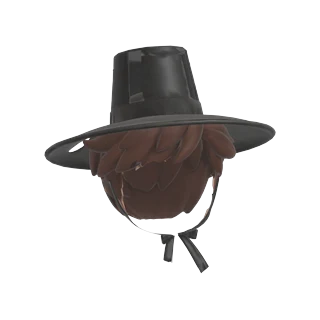
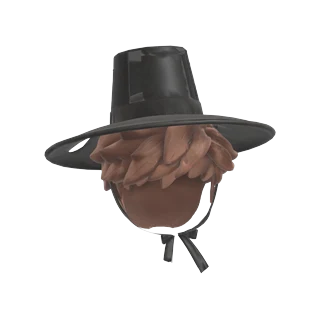
feat(art): 갓·장군 투구에 남녀별 머리 (#341)
- 게임: item__HAIR__<문자>__for_man/__for_girl 조각은 그 캐릭터에만 그림(characterLook.ts, 단위 테스트)
- hat_hair.py: 기본 머리(남자 b, 여자 e)를 모자 안으로 당겨 넣고, 모자 속에 숨은 면은 지움. drop_hair=1로 Tripo 머리 제거
- 갓: 남녀 모두 기본 머리(Tripo 머리보다 깔끔), 장군 투구: 여자 머리만 추가(남자는 그대로)
- to_game.py·render_look.py·item_art.py가 캐릭터별 조각을 앎, 옷장은 여자일 때 -girl 카드 그림 사용
- gat.glb, general.glb, 카드 그림, 문서(④-2) 갱신

Changed region(s): [[0.25, 0.375, 0.75, 0.7188]]

diff --git a/frontend/src/world/art/characterLook.ts b/frontend/src/world/art/characterLook.ts
@@ -6,7 +6,8 @@ import { equipSlots, type EquipSlot, type PublicEquipment } from '../../network/
  * that cover them, plus that character's default items; outfit files hold only their items. Every mesh lists
  * its pieces (extras.pieces: [name, first index, index count]) and the game draws only the worn ones:
  * - `body` always, `body__TOPd_BOTTOMg` unless one of those items is worn;
- * - `item__TOP__d` while TOP d from that file is worn, `item__TOP__d__under_TOPb` unless TOP b is worn too.
+ * - `item__TOP__d` while TOP d from that file is worn, `item__TOP__d__under_TOPb` unless TOP b is worn too;
+ * - `item__HAIR__h__for_girl` like `item__HAIR__h`, on the girl only (`__for_man`: the man only).
  */
 export type CharacterVariant = 'man' | 'girl'
 export interface Worn { source: string; id: string }
@@ -57,10 +58,11 @@ export function pieceShown(name: string, source: string, variant: CharacterVaria
   const worn = new Set(Object.entries(look).map(([slot, piece]) => slot + piece.id))
   const body = name.match(/^body(?:__(\w+))?$/)
   if (body) return source === variant && !tokens(body[1]).some(token => worn.has(token))
-  const item = name.match(/^item__([A-Z]+)__([a-z0-9]+)(?:__under_(\w+))?$/)
-  if (!item) return false
+  // `__for_girl` / `__for_man`: a piece for that character only (a hat's hair: the girl's under it, or the man's)
+  const item = name.match(/^item__([A-Z]+)__([a-z0-9]+)(?:__for_(man|girl))?(?:__under_(\w+))?$/)
+  if (!item || item[3] && item[3] !== variant) return false
   const piece = look[item[1] as EquipSlot]
-  return !!piece && piece.source === source && piece.id === item[2] && !tokens(item[3]).some(token => worn.has(token))
+  return !!piece && piece.source === source && piece.id === item[2] && !tokens(item[4]).some(token => worn.has(token))
 }
 
 export type PieceRange = [name: string, start: number, count: number]

diff --git a/frontend/tests/unit/characterLook.test.ts b/frontend/tests/unit/characterLook.test.ts
@@ -31,6 +31,16 @@ describe('character look (wardrobe pieces)', () => {
     expect(pieceShown('item__BOTTOM__d__under_TOPd', 'man', 'man', plain)).toBe(false)
     expect(pieceShown('item__BOTTOM__d__under_TOPb', 'man', 'man', plain)).toBe(true)
   })
+  it('shows a hat’s per-character hair only on that character', () => {
+    const gat: PublicEquipment = { itemId: 8, itemCode: 'GAT_HAIR', equipSlot: 'HAIR', imageKey: 'outfit/gat/h' }
+    const man = resolveLook('man', [gat]), girl = resolveLook('girl', [gat])
+    expect(pieceShown('item__HAIR__h', 'gat', 'girl', girl)).toBe(true)
+    expect(pieceShown('item__HAIR__h__for_girl', 'gat', 'girl', girl)).toBe(true)
+    expect(pieceShown('item__HAIR__h__for_man', 'gat', 'girl', girl)).toBe(false)
+    expect(pieceShown('item__HAIR__h__for_man', 'gat', 'man', man)).toBe(true)
+    expect(pieceShown('item__HAIR__h__for_girl', 'gat', 'man', man)).toBe(false)
+    expect(pieceShown('item__HAIR__h__for_girl', 'gat', 'girl', resolveLook('girl', []))).toBe(false)
+  })
   it('keeps the default in a slot until its file has arrived', () => {
     const look = resolveLook('girl', [general[2]!, { itemId: 7, itemCode: 'BOB', equipSlot: 'HAIR', imageKey: 'outfit/man/b' }])
     expect(lookKey(availableLook('girl', look, source => source !== 'general'))).toBe('man/b|-|girl/d|girl/d|girl/d')

diff --git a/frontend/src/features/wardrobe/itemArt.ts b/frontend/src/features/wardrobe/itemArt.ts
@@ -10,9 +10,12 @@ const setImages = import.meta.glob<string>('./parts/set-*.webp', { eager: true, 
 export const setImage = (setCode?: string | null) => setCode ? setImages[`./parts/set-${setCode.toLowerCase()}.webp`] : undefined
 // An outfit item's own picture (parts/outfit-<file>-<item>-<slot>.webp, tools/character/item_art.py), by its 3D piece.
 const outfitImages = import.meta.glob<string>('./parts/outfit-*.webp', { eager: true, import: 'default' })
-export function outfitImage(imageKey: string | null, slot: EquipSlot) {
+export function outfitImage(imageKey: string | null, slot: EquipSlot, variant: CharacterVariant = 'man') {
   const match = imageKey?.match(/^outfit\/([a-z0-9-]+)\/([a-z0-9]+)$/)
-  return match ? outfitImages[`./parts/outfit-${match[1]}-${match[2]}-${slot.toLowerCase()}.webp`] : undefined
+  if (!match) return undefined
+  const name = `./parts/outfit-${match[1]}-${match[2]}-${slot.toLowerCase()}`
+  // (a hat with each character's own hair under it has a -girl picture for the girl)
+  return (variant === 'girl' ? outfitImages[`${name}-girl.webp`] : undefined) ?? outfitImages[`${name}.webp`]
 }
 
 /** Colour words in item names (shop items ship without artwork yet; imageKey has no files behind it). */

diff --git a/frontend/src/features/wardrobe/WardrobeScreen.tsx b/frontend/src/features/wardrobe/WardrobeScreen.tsx
@@ -22,7 +22,7 @@ const walkKeys = new Set(['KeyW', 'KeyA', 'KeyS', 'KeyD', 'ArrowUp', 'ArrowDown'
 function ItemArt({ owned, variant }: { owned: OwnedItem; variant: CharacterVariant }) {
   const art = useItemArt(variant, owned.item.equipSlot!, owned.item.name)
   return <span className="wardrobe-art" data-slot={owned.item.equipSlot}>
-    <img src={setImage(owned.item.setCode) ?? outfitImage(owned.item.imageKey, owned.item.equipSlot!) ?? art} alt="" />
+    <img src={setImage(owned.item.setCode) ?? outfitImage(owned.item.imageKey, owned.item.equipSlot!, variant) ?? art} alt="" />
   </span>
 }
 
@@ -40,7 +40,7 @@ function SlotBubble({ group, worn, label, variant, active }: { group: WardrobeGr
       if (worn) previewWardrobeItem(worn.userItemId)
     }}>
     <span className="wardrobe-bubble__art" data-kind={worn ? 'item' : 'part'}>
-      <img src={(worn && (setImage(worn.item.setCode) ?? outfitImage(worn.item.imageKey, slot))) ?? art} alt="" />
+      <img src={(worn && (setImage(worn.item.setCode) ?? outfitImage(worn.item.imageKey, slot, variant))) ?? art} alt="" />
     </span>
     <b>{groupLabels[group]}</b>
     <small>{worn ? label ?? worn.item.name : '기본'}</small>

diff --git a/tools/character/hat_hair.py b/tools/character/hat_hair.py
@@ -1,0 +1,101 @@
+"""A hat's hair, per character: -- <shared_layers.glb> <out.glb> set=h [man=b] [girl=e] [drop_hair=1] [gap=0.003]
+A hat item (item__HAIR__<set>, e.g. the gat or the general's helmet) is worn by both characters, but its own hair
+was one character's. Here each character's default hair (man b, girl e) is copied in as item__HAIR__<set>__for_man /
+__for_girl (the game draws it on that character only, characterLook.ts) and kept inside the hat: every hair vertex the
+hat lies between the head's centre and it is pulled in to `gap` (3 mm) inside the hat, so the hair shows only where
+it comes out from under the hat (under the brim, below a cap). drop_hair=1 also takes the hat item's own brown hair
+(Tripo's, rougher than the default hair) out of it; its dark parts (hat, ribbon) stay. man= or girl= empty: none."""
+import bpy, bmesh, sys, re, os
+import numpy as np
+from mathutils import Vector
+from mathutils.bvhtree import BVHTree
+
+a = sys.argv[sys.argv.index('--') + 1:]
+src, out = a[0], os.path.abspath(a[1])
+opt = dict(x.split('=', 1) for x in a[2:])
+SET, GAP = opt['set'], float(opt.get('gap', 0.003))
+bpy.ops.wm.read_factory_settings(use_empty=True)
+bpy.ops.import_scene.gltf(filepath=src)
+arm = next(o for o in bpy.data.objects if o.type == 'ARMATURE')
+ad = arm.animation_data; active = ad.action if ad else None
+if ad:
+    for t in ad.nla_tracks: t.mute = True
+    ad.action = None
+for pb in arm.pose.bones: pb.matrix_basis.identity()
+bpy.context.view_layer.update()
+base = lambda o: re.sub(r'(_\d+)?(\.\d+)?$', '', o.name)
+meshes = lambda name: [o for o in bpy.data.objects if o.type == 'MESH' and base(o) == name]
+hats = meshes(f'item__HAIR__{SET}')
+assert hats, f'no item__HAIR__{SET}'
+
+def image_of(o):
+    return next((n.image for m in o.data.materials if m and m.node_tree for n in m.node_tree.nodes if n.type == 'TEX_IMAGE' and n.image), None)
+
+# Tripo's brown hair out of the hat item: whole islands whose mean texel is brown (the hat and its ribbon are near black)
+if opt.get('drop_hair', '0') == '1':
+    for o in hats:
+        img = image_of(o); w_, h_ = img.size; P = np.array(img.pixels[:], np.float32).reshape(h_, w_, -1)[..., :3]
+        bm = bmesh.new(); bm.from_mesh(o.data); uvl = bm.loops.layers.uv.active
+        seen, brown = set(), []
+        for f in bm.faces:
+            if f in seen: continue
+            grp = [f]; seen.add(f); st = [f]
+            while st:
+                g = st.pop()
+                for e in g.edges:
+                    for nf in e.link_faces:
+                        if nf not in seen: seen.add(nf); grp.append(nf); st.append(nf)
+            c = np.mean([P[min(h_ - 1, int(l[uvl].uv.y * h_)), min(w_ - 1, int(l[uvl].uv.x * w_))] for g in grp for l in g.loops], 0)
+            if c.mean() > 0.16 and c[0] - c[2] > 0.06: brown += grp
+        bmesh.ops.delete(bm, geom=brown, context='FACES'); bm.to_mesh(o.data); bm.free()
+        print('DROP', o.name, len(brown), 'brown hair faces')
+
+# the hat, world space
+hb = bmesh.new()
+for o in hats:
+    me = o.evaluated_get(bpy.context.evaluated_depsgraph_get()).to_mesh()
+    t = bmesh.new(); t.from_mesh(me); t.transform(o.matrix_world)
+    tmp = bpy.data.meshes.new('t'); t.to_mesh(tmp); t.free(); hb.from_mesh(tmp); bpy.data.meshes.remove(tmp)
+hat_bvh = BVHTree.FromBMesh(hb); hb.free()
+
+# the head's centre: the middle of the body's head (faces the Head bone leads)
+heads = []
+for o in bpy.data.objects:
+    if o.type != 'MESH' or not base(o).startswith('body'): continue
+    gi = {g.index for g in o.vertex_groups if g.name.endswith('Head')}
+    for v in o.data.vertices:
+        w = max((e.weight for e in v.groups if e.group in gi), default=0)
+        if w > 0.8: heads.append(o.matrix_world @ v.co)
+lo = Vector([min(p[i] for p in heads) for i in range(3)]); hi = Vector([max(p[i] for p in heads) for i in range(3)])
+centre = (lo + hi) / 2
+print('HEAD centre', [round(x, 3) for x in centre], 'size', [round(x, 3) for x in hi - lo])
+
+for variant in ('man', 'girl'):
+    hid = opt.get(variant, {'man': 'b', 'girl': 'e'}[variant])
+    if not hid: continue
+    for k, o in enumerate(meshes(f'item__HAIR__{hid}')):
+        c = o.copy(); c.data = o.data.copy(); bpy.context.scene.collection.objects.link(c)
+        mw, imw = c.matrix_world, c.matrix_world.inverted(); n_ = 0; pulled = set()
+        for v in c.data.vertices:
+            p = mw @ v.co; d = p - centre; L = d.length
+            if L < 1e-6: continue
+            hit = hat_bvh.ray_cast(centre, d / L, L)
+            if hit[0] is not None:                   # the hat lies between the head's centre and this vertex
+                v.co = imw @ (hit[0] - d / L * GAP); n_ += 1; pulled.add(v.index)
+        # faces wholly pulled in lie under the hat, never seen: they go (the helmet hid nine tenths of the girl's hair)
+        cb = bmesh.new(); cb.from_mesh(c.data)
+        gone = [f for f in cb.faces if all(v.index in pulled for v in f.verts)]
+        bmesh.ops.delete(cb, geom=gone, context='FACES')
+        bmesh.ops.delete(cb, geom=[v for v in cb.verts if not v.link_faces], context='VERTS')
+        cb.to_mesh(c.data); cb.free()
+        print('HAIR', len(gone), 'faces wholly under the hat dropped')
+        c.name = f'item__HAIR__{SET}__for_{variant}' + (f'_{k}' if k else '')
+        print('HAIR', c.name, 'from', o.name, len(c.data.vertices), 'vertices,', n_, 'pulled inside the hat')
+
+for o in bpy.data.objects:
+    if o.type == 'ARMATURE' and ad:
+        for t in ad.nla_tracks: t.mute = False
+        ad.action = active
+bpy.ops.export_scene.gltf(filepath=out, export_format='GLB', export_animations=True, export_animation_mode='NLA_TRACKS',
+                          export_skins=True, export_apply=False, export_image_format='AUTO')
+print('RESULT', out)

diff --git a/tools/character/item_art.py b/tools/character/item_art.py
@@ -4,13 +4,14 @@ like the default parts' pictures (frontend/src/features/wardrobe/parts), lit by 
 Writes <out_dir>/outfit-<file>-<set>-<slot>.raw.png; fit them to the card with the same 232 px width afterwards.
 together=TOP,BOTTOM,SHOES also draws those slots as one picture, <out_dir>/set-<file>-<set>.raw.png (a set's card:
 the wardrobe's outfit is worn as one). cut_above=dz leaves out of the top's and the set's pictures what lies over
-dz above the neck joint."""
+dz above the neck joint. variant=girl draws a hat's girl hair (__for_girl) and writes -girl pictures."""
 import bpy, sys, os, re
 from mathutils import Vector
 a = sys.argv[sys.argv.index('--') + 1:]
 src, od, file_, SET = a[0], os.path.abspath(a[1]), a[2], a[3]
 opt = dict(x.split('=') for x in a[4:])
 SIZE = int(opt.get('size', 640))
+VARIANT = opt.get('variant', 'man'); SUFFIX = '' if VARIANT == 'man' else '-' + VARIANT
 sys.path.insert(0, os.path.dirname(os.path.abspath(__file__)))
 from game_pose import bind_pose
 bpy.ops.wm.read_factory_settings(use_empty=True); bpy.ops.import_scene.gltf(filepath=src)
@@ -19,8 +20,9 @@ bind_pose(arm)
 items = {}
 for o in list(bpy.data.objects):
     if o.type != 'MESH': continue
-    m = re.match(rf'item__([A-Z]+)__{SET}(?:__under_\w+)?(?:_\d+)?$', re.sub(r'\.\d+$', '', o.name))
-    if m: items.setdefault(m.group(1), []).append(o)
+    m = re.match(rf'item__([A-Z]+)__{SET}(?:__for_(man|girl))?(?:__under_\w+)?(?:_\d+)?$', re.sub(r'\.\d+$', '', o.name))
+    # (variant=girl: a hat's girl hair, __for_girl, instead of the man's; written -girl)
+    if m and (not m.group(2) or m.group(2) == VARIANT): items.setdefault(m.group(1), []).append(o)
     else: o.hide_render = True
 sc = bpy.context.scene
 sc.render.engine = 'BLENDER_EEVEE_NEXT' if 'BLENDER_EEVEE_NEXT' in [e.identifier for e in bpy.types.RenderSettings.bl_rna.properties['engine'].enum_items] else 'BLENDER_EEVEE'
@@ -54,6 +56,6 @@ for slot, objs in jobs:
     lo = Vector([min(p[i] for p in P) for i in range(3)]); hi = Vector([max(p[i] for p in P) for i in range(3)])
     c = (lo + hi) / 2; cam.data.ortho_scale = max(hi - lo) * 1.15
     cam.location = c + d * 5; cam.rotation_euler = (-d).to_track_quat('-Z', 'Y').to_euler()
-    name_ = f'set-{file_}-{SET}.raw.png' if slot == 'SET' else f'outfit-{file_}-{SET}-{slot.lower()}.raw.png'
+    name_ = f'set-{file_}-{SET}{SUFFIX}.raw.png' if slot == 'SET' else f'outfit-{file_}-{SET}-{slot.lower()}{SUFFIX}.raw.png'
     sc.render.filepath = os.path.join(od, name_); bpy.ops.render.render(write_still=True)
     print('ART', slot, len(objs), 'meshes')

diff --git a/tools/character/to_game.py b/tools/character/to_game.py
@@ -52,9 +52,11 @@ keep = []
 for o in list(bpy.data.objects):
     if o.type != 'MESH': continue
     n = re.sub(r'\.\d+$', '', o.name)
-    m = re.match(r'item__([A-Z]+)__([a-z0-9]+)(?:__under_(\w+?))?(?:_\d+)?$', n)
+    m = re.match(r'item__([A-Z]+)__([a-z0-9]+)(?:__for_(?:man|girl))?(?:__under_(\w+?))?(?:_\d+)?$', n)
     b = re.match(r'body(?:__(\w+))?$', re.sub(r'_\d+$', '', n))
-    show = (m and worn(m.group(1), m.group(2)) and not any(worn(s, i) for s, i in parse(m.group(3)))) or \
+    fv = re.search(r'__for_(man|girl)', n)
+    show = (m and worn(m.group(1), m.group(2)) and not any(worn(s, i) for s, i in parse(m.group(3)))
+            and not (fv and variant in ('man', 'girl') and fv.group(1) != variant)) or \
            (b and not any(worn(s, i) for s, i in parse(b.group(1))))
     if PIECES:
         # pieces=1 (마이룸 slots): every body piece (body=0 drops them: an outfit file) and every piece of the picked

diff --git a/tools/character/render_look.py b/tools/character/render_look.py
@@ -17,8 +17,8 @@ tokens = lambda rule: re.findall(r'[A-Z]+[a-z0-9]+', rule or '')
 def shown(name, src):
     m = re.match(r'^body(?:__(\w+))?$', name)
     if m: return src == variant and not any(t in worn for t in tokens(m.group(1)))
-    m = re.match(r'^item__([A-Z]+)__([a-z0-9]+)(?:__under_(\w+))?$', name)
-    return bool(m) and look.get(m.group(1)) == f'{src}/{m.group(2)}' and not any(t in worn for t in tokens(m.group(3)))
+    m = re.match(r'^item__([A-Z]+)__([a-z0-9]+)(?:__for_(man|girl))?(?:__under_(\w+))?$', name)
+    return bool(m) and (not m.group(3) or m.group(3) == variant) and look.get(m.group(1)) == f'{src}/{m.group(2)}'         and not any(t in worn for t in tokens(m.group(4)))
 bpy.ops.wm.read_factory_settings(use_empty=True)
 for src, p in files:
     b = open(p, 'rb').read(); n = struct.unpack('<I', b[12:16])[0]; j = json.loads(b[20:20 + n])

diff --git a/docs/character-outfits.md b/docs/character-outfits.md
@@ -14,6 +14,7 @@
   - 데이터의 부위는 그대로 다섯 개다. 세 칸은 옷장 화면과 장착 규칙에서만 나뉜다.
   - 그래서 새 옷은 **자기 한 벌을 입었을 때만** 맞으면 된다. 다른 상의·하의·신발과 섞어 입는 경우는 생기지 않는다.
   - 부위별로 섞어 입게 했을 때는 바지가 다른 상의를 뚫거나, 바지 없이 신발만 신으면 발목이 비는 문제가 옷마다 생겼다.
+- **캐릭터별 조각.** `item__HAIR__h__for_girl`처럼 `__for_man`/`__for_girl`이 붙은 조각은 그 캐릭터에게만 보인다(④-2).
 - **의상 문자.** 기준 빌드 안의 의상은 문자로 구분한다. 이미 쓴 문자는 `a`~`g`(남자 기본 `b`·`d`, 여자 머리 `e`, 장군 `g`)이고, 새 옷은 `h`부터 쓴다.
 - **몸 조각.** 의상에 가려지는 몸은 `body__TOPd_BOTTOMg`처럼 가리는 의상 이름이 붙은 조각으로 잘려 있다. 이 조각은 그 의상 중 하나라도 입으면 숨는다. 의상 조각 `item__BOTTOM__d__under_TOPb`는 `TOP b`를 함께 입으면 숨는다.
 - **게임 파일**(`frontend/public/art/characters/`):
@@ -125,6 +126,24 @@
   - 신발은 그 아래를 가린다.
 - **조각 이름은 `_1`, `_2`로 붙인다.** `.001`처럼 점을 쓰면 three.js가 점을 지워서 규칙 해석이 깨진다.
 - **부품의 작은 구멍(30변 이하)은 메운다.** Tripo 부품에는 구멍이 자주 있다.
+
+### ④-2 모자 아래 머리 (남녀별)
+
+모자와 머리카락이 한 아이템인 머리 아이템(갓, 장군 투구)은 남녀가 같이 쓴다. 그래서 머리카락을 캐릭터별 조각으로 따로 둔다.
+
+- 조각 이름은 `item__HAIR__<문자>__for_man` / `item__HAIR__<문자>__for_girl`이다. 게임은 그 캐릭터에만 그린다(`characterLook.ts`).
+- 머리카락은 기본 캐릭터의 머리(남자 `b`, 여자 `e`)를 복사해 쓴다. Tripo 머리보다 깔끔하고 기본 모습과 머릿결이 같다.
+- `tools/character/hat_hair.py`가 머리카락을 모자 안으로 넣는다.
+  - 머리 중심에서 그 점 사이에 모자가 있으면, 그 점을 모자 안쪽 3 mm로 당긴다.
+  - 모두 당겨져 모자 속에 숨은 면은 지운다.
+  - `drop_hair=1`은 모자 아이템에 있던 Tripo 머리(갈색 조각)를 뺀다.
+
+```bash
+"$B" -b --python tools/character/hat_hair.py -- shared_layers_h.glb hh1.glb set=h drop_hair=1        # 갓: 남녀 모두 기본 머리로
+"$B" -b --python tools/character/hat_hair.py -- hh1.glb hh2.glb set=g man= girl=e                    # 장군 투구: 남자는 그대로, 여자 머리만
+```
+
+- 카드 그림은 `item_art.py ... variant=girl`로 `-girl` 그림(`outfit-gat-h-hair-girl.webp`)을 따로 만든다. 옷장은 여자 캐릭터일 때 이 그림을 먼저 쓴다.
 
 ### ⑤ 빌드 확인
 
